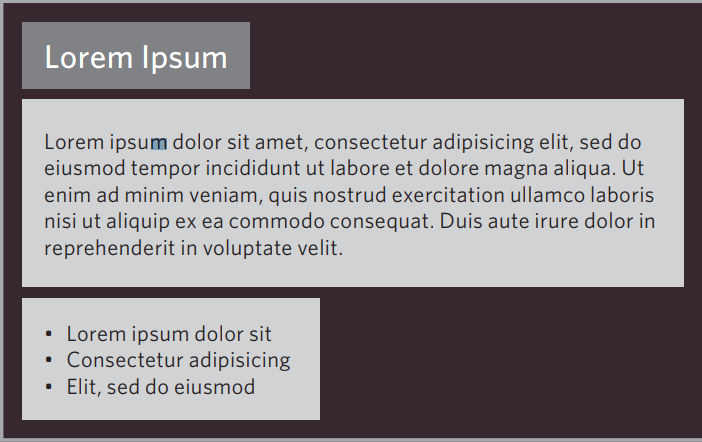
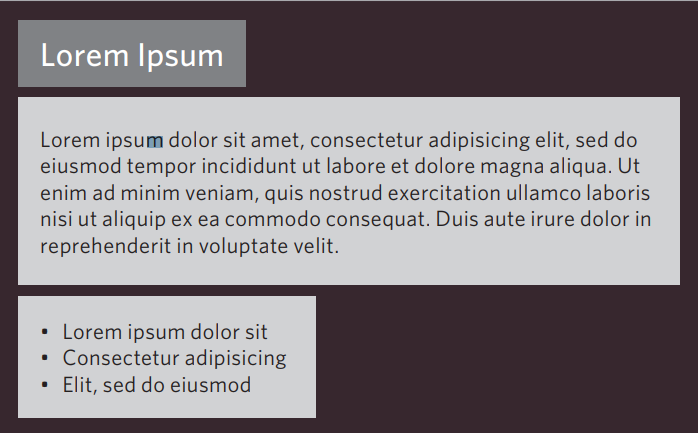
apply style to tech-document

Changed region(s): [[0.0, 0.0, 1.0, 1.0], [0.0602, 0.3002, 0.9327, 0.6005]]

diff --git a/blog/html-css.html b/blog/html-css.html
@@ -5,53 +5,67 @@
     <meta charset="UTF-8">
     <meta http-equiv="X-UA-Compatible" content="IE=edge">
     <meta name="viewport" content="width=device-width, initial-scale=1.0">
-    <title>Document</title>
-    <link rel="stylesheet" href="/styles/html-css.css">
+    <title>Technical Document</title>
     <link rel="stylesheet" href="/styles/main.css">
+    <link rel="stylesheet" href="/styles/html-css.css">
 </head>
 
 <body>
     <nav id="nav-bar">
-        <a href="#home">Home</a>
-        <a href="#about">About</a>
-        <a href="#blog">Blogs</a>
-        <a href="#contact">Contact</a>
+        <a href="/index.html">Home</a>
+        <a href="/index.html/#about">About</a>
+        <a href="/index.html/#blog">Blogs</a>
+        <a href="/index.html/#contact">Contact</a>
     </nav>
     <main>
-        <div id="hero-id">
-            <h1 id="td-h1">What does it mean to display inline vs inline blocks?</h1>
+        <div id="hero-techdoc">
+            <h1 id="techdoc-h1">
+                What does it mean to display inline vs inline blocks?
+            </h1>
         </div>
-        <div id="content">
-            <section>
-                <h3>Introduction</h3>
-                <p>Building Blocks</p>
-                <p>CSS treats each HTML element as if it is in its
-                    own box. This box will either be a block-level
-                    box or an inline box.
-                </p>
-                <p>Block-level boxes start on a new line and act as the 
-                    main building blocks of any layout, while inline boxes 
-                    flow between surrounding text. You can control how 
-                    much space each box takes up by setting the width of the
-                    boxes (and sometimes the height, too). To separate boxes, 
-                    you can useborders, margins, padding, and background 
-                    colors.
-                </p>
-                <div>
-                    <p>Block-level elements</p>
-                    <p>start on a new line</p>
-                    <p>Examples include: <code>&lt;h1&gt; &lt;p&gt; &lt;ul&gt; &lt;li&gt; &lt;li&gt;</code></p>
-                </div>
-                <div>
-                    <p>Inline elements</p>
-                    <p>flow in betweensurrounding text</p>
-                    <p>Examples include:<code>&lt;img&gt; &lt;b&gt; &lt;i&gt;</code></p>
-                </div>
-            </section>
-            <section>
-                
-            </section>
+        <div id="first-box">
+            <p id="bd-block" class="orange larger-font">Building Blocks</p>
+            <p>CSS treats each HTML element as if it is in its
+                own box. This box will either be a block-level
+                box or an inline box.
+            </p>
+            <p>Block-level boxes start on a new line and act as the
+                main building blocks of any layout, while inline boxes
+                flow between surrounding text. You can control how
+                much space each box takes up by setting the width of the
+                boxes (and sometimes the height, too). To separate boxes,
+                you can useborders, margins, padding, and background
+                colors.
+            </p>
         </div>
+        <div class="second-box">
+            <div>
+                <p class="orange max-width-p">Block-level elements</p>
+                <p class="max-width-p">start on a new line</p>
+                <p class="max-width-p">Examples include:
+                    <br>
+                    <code>
+                        &lt;h1&gt; &lt;p&gt; &lt;ul&gt; &lt;li&gt;
+                    </code>
+                </p>
+            </div>
+            <div id="example-one" class="example"></div>
+        </div>
+        <div class="second-box">
+            <div>
+                <p class="orange max-width-p">Inline elements</p>
+                <p class="max-width-p">flow in between surrounding text</p>
+                <p class="max-width-p">Examples include:
+                    <br>
+                    <code>
+                        &lt;img&gt; &lt;b&gt; &lt;i&gt;
+                    </code>
+                </p>
+            </div>
+            <div id="example-two" class="example"></div>
+        </div>
+
+
     </main>
 </body>
 

diff --git a/styles/html-css.css b/styles/html-css.css
@@ -1,8 +1,21 @@
+* {
+    font-family: Arial, Helvetica, sans-serif;
+}
 :root {
     --color-aqua: rgb(105, 230, 230);
-    --color-white: white;
+    --color-white: rgba(239, 233, 233, 0.863);
+    --color-orange: rgb(236, 83, 36);
+    ---color-black: rgba(11, 10, 10, 0.824);
 }
-#hero-id {
+main {
+    background-color: var(---color-black);
+    color: var(--color-white);
+    text-align: justify;
+}
+/* hero section */
+/* hero section */
+/* hero section */
+#hero-techdoc {
     background-image: url(/images/techdoc.jpeg);
     background-position: center;
     height: 45vh;
@@ -10,9 +23,56 @@
     justify-content: center;
     align-items: center;
 }
-#td-h1 {
+#techdoc-h1 {
     text-align: center;
     color: var(--color-white);
-    padding: 0px 135px 0px 135px;
-    background-color: rgba(0, 0, 0, 0.699);
+    padding: 5px 15vw 0px 15vw;
+    background-color: rgba(31, 30, 30, 0.699);
+}
+/* main content */
+/* main content */
+/* main content */
+
+#first-box {
+    display: flex;
+    flex-direction: column;
+    justify-content: center;
+    align-items: center;
+    padding-top: 20px;
+}
+#first-box p {
+    max-width: 375px;
+    padding: 10px;
+}
+.second-box {
+    display: flex;
+    justify-content: space-evenly;
+    padding: 25px;
+}
+#example-one {
+    background-image: url(/images/block-level-el.png);
+}
+#example-two {
+    background-image: url(/images/inline-el.png);
+}
+.example {
+    width: 40vw;
+    height: 45vh;
+    border: 5px solid white;
+    background-size: contain;
+    background-repeat: no-repeat;
+    background-position: center;
+    
+}
+.orange {
+    color: var(--color-orange);
+    font-size: larger;
+    font-weight: bold;
+}
+
+.larger-font {
+    font-size: 2rem;
+} 
+.max-width-p {
+    max-width: 150px;
 }

diff --git a/styles/main.css b/styles/main.css
@@ -5,7 +5,9 @@
 }
 :root {
     --color-aqua: rgb(105, 230, 230);
-    --color-white: white;
+    --color-white: rgba(239, 233, 233, 0.863);
+    --color-orange: rgb(230, 54, 0);
+    ---color-black: rgba(11, 10, 10, 0.824);
 }
 html {
     background-color: var(--color-white);

diff --git a/styles/idandvalue.css b/styles/idandvalue.css
@@ -77,7 +77,7 @@ td {
     padding-bottom: 35px;
 }
 #idvalue {
-    font-size: 5rem;
+    font-size: 4rem;
     padding-top: 15px;
 }
 /* responsive */
